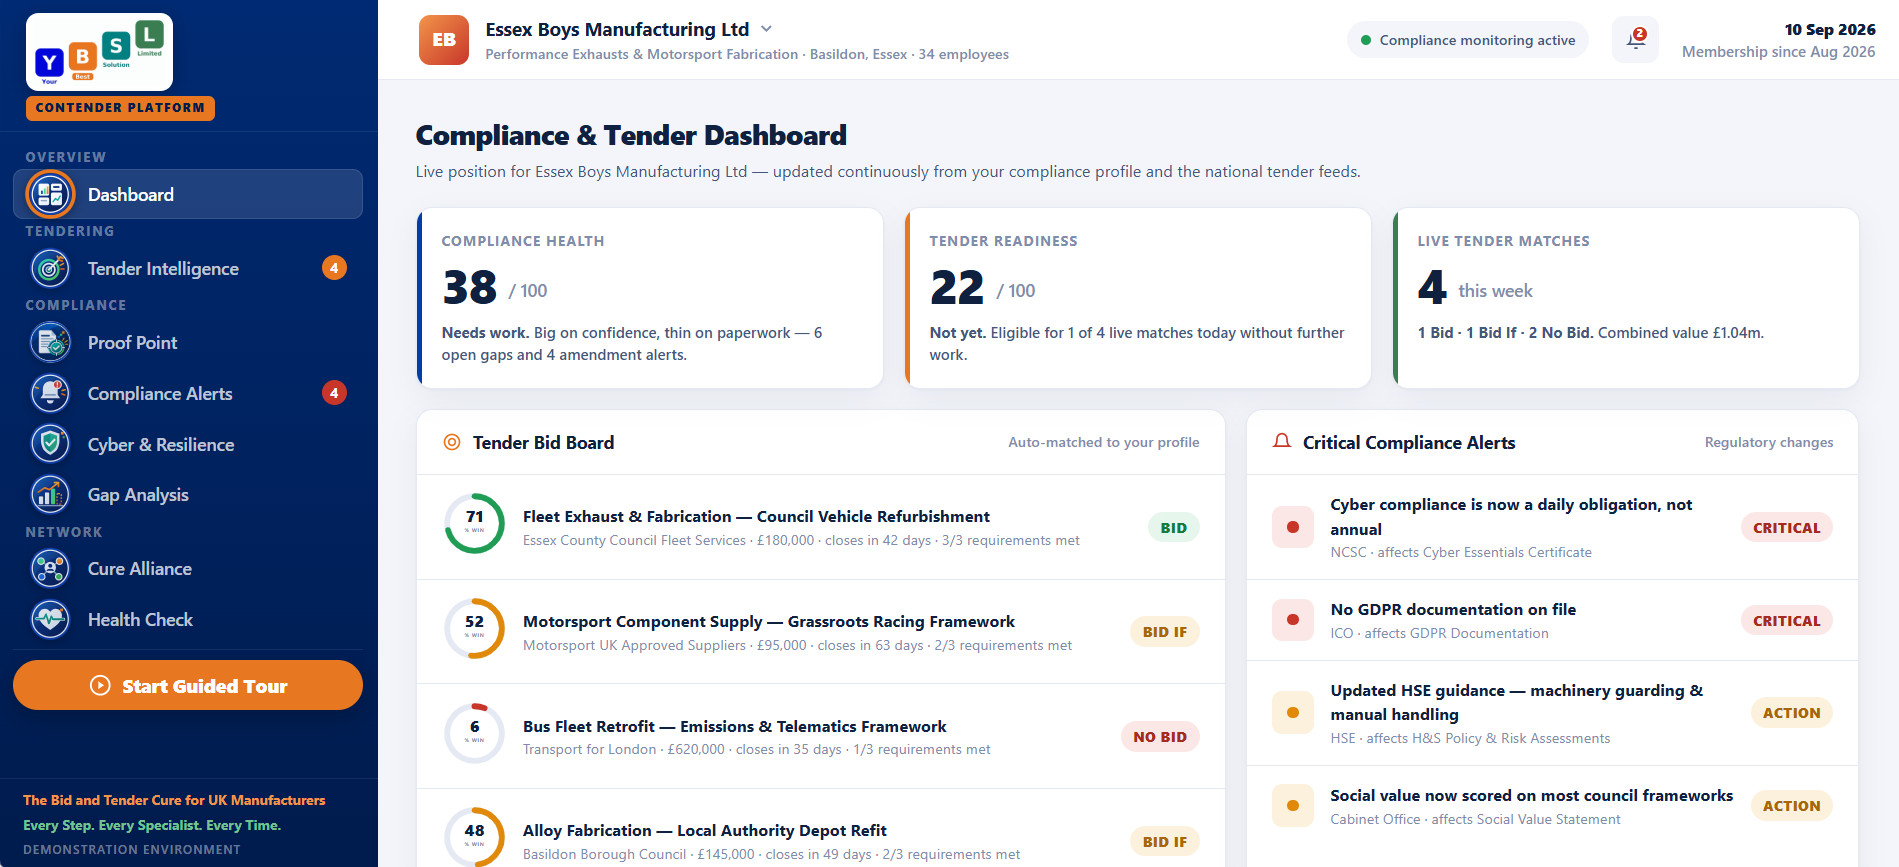
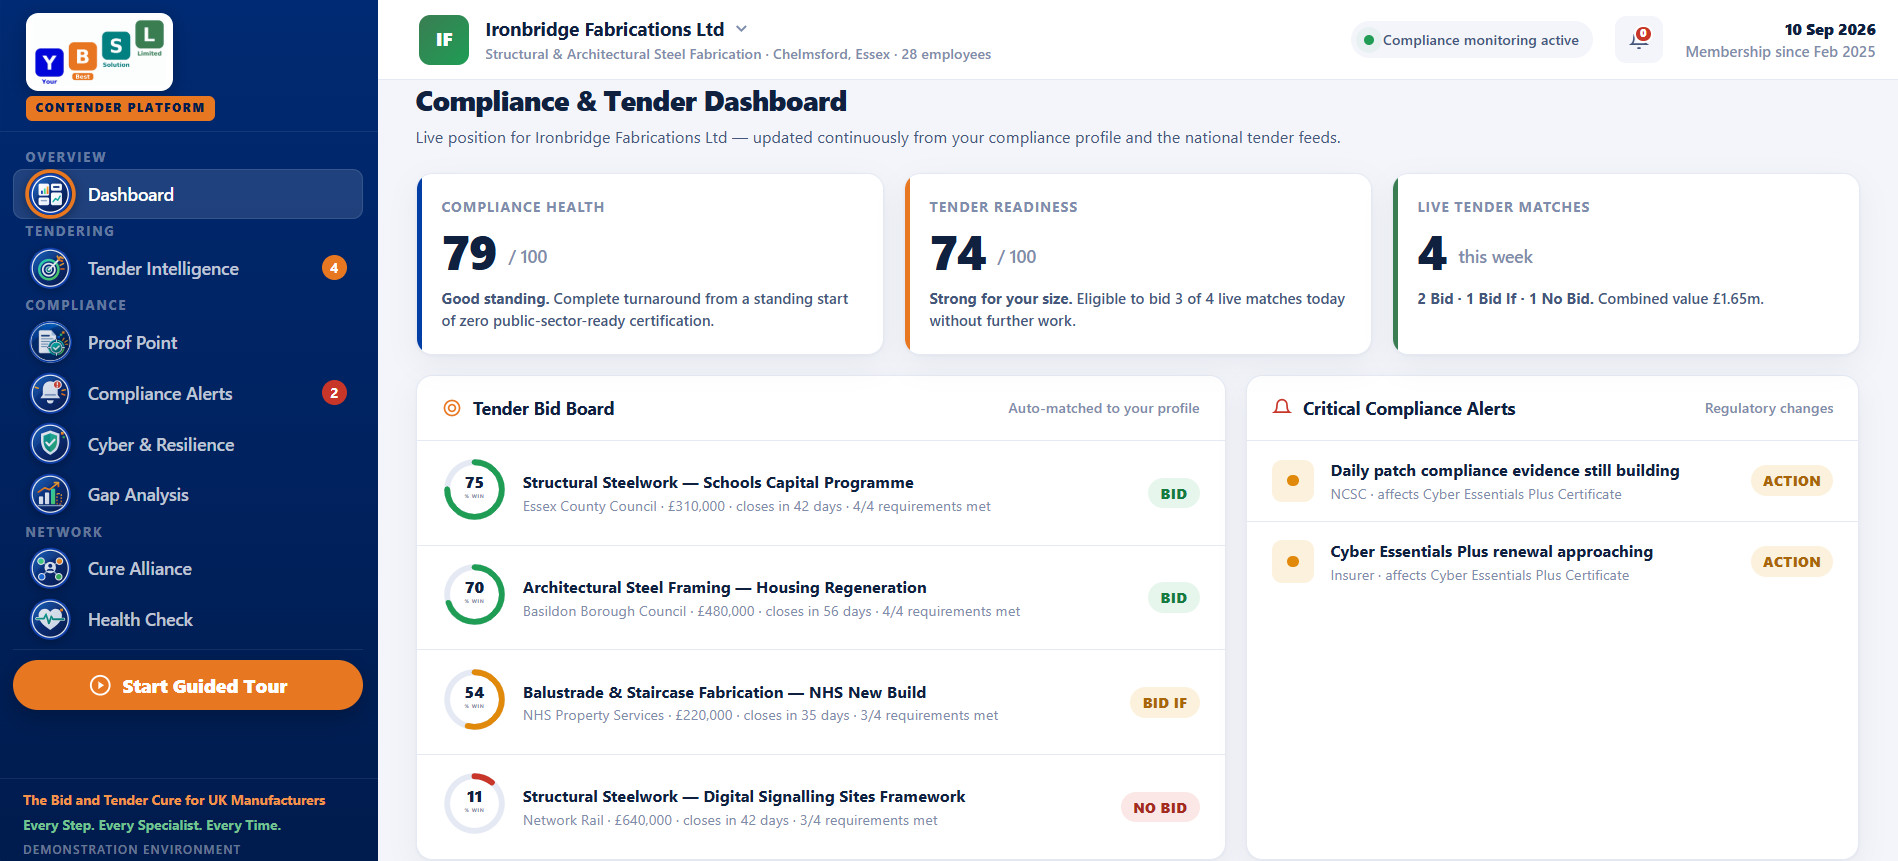
Replace Contender demo image with Ironbridge Fabrications dashboard
Claude-Session: https://claude.ai/code/session_01TJp2SfCTmcaW943HdcwSb1

diff --git a/index.html b/index.html
@@ -803,7 +803,7 @@
     </div>
     <div class="cd-demo rev in" id="contender-demo">
       <a href="https://claude.ai/artifact/CThx9XWwA8btkLT8CUEqoN" target="_blank" rel="noopener" class="cd-shot">
-        <picture><source srcset="contender-demo.webp" type="image/webp"><img src="contender-demo.jpg" width="1899" height="867" loading="lazy"
+        <picture><source srcset="contender-demo.webp" type="image/webp"><img src="contender-demo.jpg" width="1898" height="861" loading="lazy"
              alt="Contender dashboard showing compliance health, tender readiness, live tender matches and compliance alerts for an example manufacturer"></picture>
       </a>
       <a href="https://claude.ai/artifact/CThx9XWwA8btkLT8CUEqoN" target="_blank" rel="noopener" class="cd-btn">
